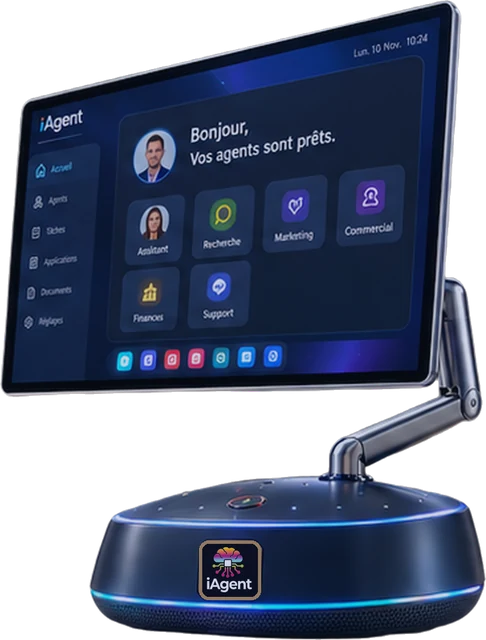
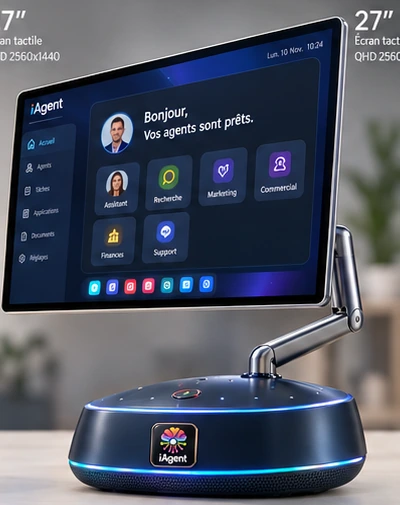
Station iAgent : Coming soon sur l'accueil, présentation à la Apple sur la page Box
La publicité de max est montrée telle quelle, découpée en bandes et jamais
plus large que ses pixels : les montages agrandis paraissaient pixelisés.
Le banc du site n'autorise « Coming soon » que pour la Station (station.jsx).

Claude-Session: https://claude.ai/code/session_01Fapx3mFwNfJZqDxJ1ozkaE

diff --git a/frontend/src/pages/PagesOffre.jsx b/frontend/src/pages/PagesOffre.jsx
@@ -1,3 +1,4 @@
+import { StationApple } from './station.jsx';
 import donnees from 'virtual:accueil';
 import { nombre, LIENS, Icone } from '../accueil/composants.jsx';
 import tarifs, { euros, montant, STATUTS, BOX_PUBLIQUES, BOX_DES, prixAgentEnUneLigne, DUREES, DUREES_COURTES, GRILLE_LOCATION, JOUR_DES } from '../data/tarifs.js';
@@ -42,7 +43,7 @@ function ScenEquipe() {
         {roles.map(([n, role]) => <Collaborateur key={n} n={n} role={role} statut="Disponible" />)}
       </div>
       <div className="sc-equipe-ecran"><Ecran src="dc-vos-agents" alt="Desktop Commander : l'écran « Vos agents » avec l'équipe embauchée" charger="eager" /></div>
-      <div className="sc-equipe-box"><Photo dossier="/accueil" src="box-commander" alt="La Box iAgent Station en trois finitions : écran tactile 27 pouces sur bras, base avec micros et haut-parleurs" largeur={1122} hauteur={570} charger="eager" /></div>
+      <div className="sc-equipe-box"><Photo dossier="/accueil" src="box-commander" alt="La Box iAgent Station en trois finitions : écran tactile 27 pouces sur bras, base avec micros et haut-parleurs" largeur={1176} hauteur={600} charger="eager" /></div>
     </div>
   );
 }
@@ -65,7 +66,7 @@ function RailRecrutement({ colonnes = 6, complet = false }) {
     ['Le prix', 'Agents, Box et estimation de consommation, affichés avant tout engagement.',
       <div className="sc-prix-mini"><small>Agent {ESSENTIAL.nom}, dès</small><strong>{euros(ESSENTIAL.mensuel)}<em> HT / mois</em></strong><small>+ consommation, à part</small></div>],
     ...(complet ? [['La préparation', 'Le contrat signé, la Box est préparée et vos agents y sont installés.',
-      <Photo dossier="/accueil" src="box-commander" alt="" largeur={1122} hauteur={570} />]] : []),
+      <Photo dossier="/accueil" src="box-commander" alt="" largeur={1176} hauteur={600} />]] : []),
     ['La mise en service', 'Vous branchez, vous vous connectez à vos comptes, l’équipe se met au travail.',
       <ul className="sc-coches-mini">{['Box branchée', 'Comptes connectés par vous', 'Équipe au travail'].map((t) => <li key={t}><Icone nom="coche" taille={14} />{t}</li>)}</ul>],
   ];
@@ -90,7 +91,7 @@ export function Workforce() {
         texte="Quatre pièces, chacune sur sa ligne : vous savez toujours ce que vous payez.">
         <div className="sc-formule">
           <a href="/box" className="sc-verre">
-            <div className="sc-formule-visuel"><Photo dossier="/accueil" src="box-commander" alt="La Box iAgent Station en trois finitions" largeur={1122} hauteur={570} /></div>
+            <div className="sc-formule-visuel"><Photo dossier="/accueil" src="box-commander" alt="La Box iAgent Station en trois finitions" largeur={1176} hauteur={600} /></div>
             <b>La Box</b><small>La Station iAgent, chez vous : écran tactile, micros et haut-parleurs en un seul appareil.</small>
           </a>
           <a href={LIENS.catalogue} className="sc-verre">
@@ -116,7 +117,7 @@ export function Workforce() {
       <Scene surtitre="Ce qui fait la différence" titre="Une présence, un poste de pilotage, un vrai métier">
         <div className="sc-trois">
           <div className="sc-verre sc-panneau">
-            <Photo src="box-bureau" alt="La Box iAgent Station sur un bureau, l'écran allumé, en blanc, bleu nuit et aluminium" largeur={1990} hauteur={940} />
+            <Photo src="box-bureau" alt="La Box iAgent Station sur un bureau, l'écran allumé, en blanc, bleu nuit et aluminium" largeur={1448} hauteur={600} />
             <p className="mq-surtitre">Pourquoi la Box</p>
             <h3 className="sc-h3">Une présence physique dans vos bureaux</h3>
             <Liste items={['On parle aux agents à voix haute, par leur prénom.', "L'écran tactile se commande au doigt, sans formation.", 'Préparée, maintenue et mise à jour par iAgent.']} />
@@ -208,7 +209,7 @@ function Puissances() {
     <ul className="sc-materiel">
       {PUISSANCES.map(([icone, titre, texte, statut, image]) => (
         <li key={titre} className="sc-verre">
-          <div className="sc-materiel-visuel">{image ? <Photo dossier="/accueil" src={image} alt="" largeur={1122} hauteur={570} /> : <Icone nom={icone} taille={54} />}</div>
+          <div className="sc-materiel-visuel">{image ? <Photo dossier="/accueil" src={image} alt="" largeur={1176} hauteur={600} /> : <Icone nom={icone} taille={54} />}</div>
           <em>{statut}</em>
           <b>{titre}</b>
           <small>{texte}</small>
@@ -226,12 +227,15 @@ const FINITIONS = [
   ['alu', 'Brushed Aluminum', 'Aluminium brossé et détails chrome', 'Sobre, minéral, haut de gamme.'],
 ];
 
+// Native widths of the three crops of max's visual (height 505).
+const TAILLES = { white: 344, navy: 400, alu: 430 };
+
 function Finitions() {
   return (
     <ul className="sc-finitions">
       {FINITIONS.map(([id, nom, matiere, ton], i) => (
         <li key={id} className="sc-verre">
-          <div className="sc-finition-visuel"><Photo src={`station-${id}`} alt={`La Station iAgent en finition ${nom}`} largeur={490} hauteur={640} /></div>
+          <div className="sc-finition-visuel"><Photo src={`station-${id}`} alt={`La Station iAgent en finition ${nom}`} largeur={TAILLES[id]} hauteur={505} /></div>
           <p className="mq-surtitre">{String.fromCharCode(65 + i)} / {nom}</p>
           <b>{matiere}</b>
           <small>{ton}</small>
@@ -320,7 +324,9 @@ export function Box() {
           <Bouton href="/contact" variante="contour-cyan" evenement="box_quote">Demander un devis Box</Bouton>
         </>}
         preuves={[['micro', 'La voix', 'par leur prénom'], ['ecran', 'Tactile', 'au doigt'], ['bouclier', 'Maintenue', 'mises à jour comprises'], ['equipe', 'Une dizaine', "d'agents par Box"]]}
-        visuel={<Photo src="box-bureau" alt="La Box iAgent Station sur un bureau, en Pearl White, Deep Navy et Brushed Aluminum : écran tactile 27 pouces sur bras articulé, base avec micros et haut-parleurs" largeur={1990} hauteur={940} charger="eager" className="sc-box-heros" />} />
+        visuel={<Photo src="box-bureau" alt="La Box iAgent Station sur un bureau, en Pearl White, Deep Navy et Brushed Aluminum : écran tactile 27 pouces sur bras articulé, base avec micros et haut-parleurs" largeur={1448} hauteur={600} charger="eager" className="sc-box-heros" />} />
+
+      <StationApple />
 
       <Scene surtitre="L'expérience" titre={<>On lui parle, on la touche, <Eclat>elle travaille</Eclat></>}>
         <Atouts items={[
@@ -454,7 +460,7 @@ function GrilleTarifs() {
         <div className="sc-offre-tete"><span><Icone nom="ecran" taille={20} /></span><div><b>La Box</b><small>Le poste de vos agents, chez vous.</small></div></div>
         <div className="sc-montant"><strong>{euros(BOX_PUBLIQUES[0].mensuel)}</strong><em>HT / mois sur {BOX_PUBLIQUES[0].engagementMois} mois</em></div>
         {BOX_PUBLIQUES.slice(1).map((b) => <p key={b.id} className="sc-montant-ou">ou <b>{euros(b.mensuel)}</b> HT / mois sur {b.engagementMois} mois</p>)}
-        <Photo dossier="/accueil" src="box-commander" alt="" largeur={1122} hauteur={570} className="sc-offre-image" />
+        <Photo dossier="/accueil" src="box-commander" alt="" largeur={1176} hauteur={600} className="sc-offre-image" />
         <Bouton href="/box" variante="contour-cyan" evenement="box_click">Découvrir la Box</Bouton>
         <span className="sc-offre-statut">{STATUTS[BOX_PUBLIQUES[0].statut] ?? ''} · matériel compris</span>
       </li>
@@ -469,7 +475,7 @@ export function Tarifs() {
       <Heros decor="orbite" surtitre="Tarifs" titre={<>Un abonnement fixe. <Eclat>Une consommation à part.</Eclat></>}
         texte={`Vous payez la Box, vos agents et, au-delà de quelques agents, le Task Commander. L'usage de l'IA se paie au réel, à part. Prix hors taxes, ${STATUTS[tarifs.statut]?.toLowerCase() ?? tarifs.statut}.`}
         preuves={[['equipe', 'Par agent', 'un prix par niveau'], ['ecran', 'La Box', 'mise à disposition'], ['eclair', 'Consommation', 'au réel, à part'], ['bouclier', 'Sans surprise', "l'estimation avant"]]}
-        visuel={<Photo src="box-bureau" alt="La Box iAgent Station sur un bureau, en trois finitions" largeur={1990} hauteur={940} charger="eager" className="sc-box-heros" />} />
+        visuel={<Photo src="box-bureau" alt="La Box iAgent Station sur un bureau, en trois finitions" largeur={1448} hauteur={600} charger="eager" className="sc-box-heros" />} />
 
       <Scene surtitre="Les agents et la Box" titre={<>Choisissez le niveau de <Eclat>chaque poste</Eclat></>}
         texte={`Chaque agent a son abonnement, ${prixAgentEnUneLigne()} hors taxes. La Box s'ajoute une fois pour l'équipe.`}>
@@ -609,7 +615,7 @@ export function IALocale() {
 /** The three ways to run, as in the security mockup: local, hybrid, cloud. */
 function Deploiements() {
   const voies = [
-    ['local', 'Local', 'Les modèles tournent chez vous ; rien ne sort pour être traité.', <Photo dossier="/accueil" src="box-commander" alt="" largeur={1122} hauteur={570} />, ['Vos fichiers', 'La Box', 'Vos dossiers']],
+    ['local', 'Local', 'Les modèles tournent chez vous ; rien ne sort pour être traité.', <Photo dossier="/accueil" src="box-commander" alt="" largeur={1176} hauteur={600} />, ['Vos fichiers', 'La Box', 'Vos dossiers']],
     ['hybride', 'Hybride', "Le quotidien en local, l'API pour ce que la machine ne porte pas. Vous êtes prévenu avant.", <Icone nom="hybride" taille={64} />, ['La Box', 'Vous êtes prévenu', "L'API d'IA"]],
     ['cloud', 'Cloud', "Pour un ou deux agents, sans machine : ils passent par l'API d'IA que vous choisissez.", <Icone nom="nuage" taille={64} />, ['Desktop Commander', "L'API d'IA", 'Vos dossiers']],
   ];

diff --git a/frontend/src/accueil/scenes/IAgentBox.jsx b/frontend/src/accueil/scenes/IAgentBox.jsx
@@ -2,14 +2,15 @@ import { useRef } from 'react';
 import { Bouton, LIENS } from '../composants.jsx';
 import { BOX_PUBLIQUES, euros } from '../../data/tarifs.js';
 import { useScene, BUREAU, MOBILE, gsap } from '../mouvement.js';
+import { COMING_SOON, PUBLICITE } from '../../pages/station.jsx';
 
-// What each part of the iAgent Station does, placed on the three-finish picture
-// (percent of its width and height). Labels sit beside the badges, never on them.
+// What each part of the iAgent Station does. The picture is max's own visual,
+// shown whole and never wider than its pixels: nothing is drawn over it.
 const REPERES = [
-  { nom: 'Voice', detail: 'ils vous répondent par les haut-parleurs de la base', x: 77, y: 88 },
-  { nom: 'Listen', detail: 'des micros qui vous entendent dans toute la pièce', x: 22, y: 69 },
-  { nom: 'Touch', detail: 'un écran de 27 pouces, le Desktop Commander au doigt', x: 62, y: 14 },
-  { nom: 'Tout-en-un', detail: 'ordinateur, audio, micros et écran en un appareil', x: 34, y: 93 },
+  { nom: 'Voice', detail: 'ils vous répondent par les haut-parleurs de la base' },
+  { nom: 'Listen', detail: 'des micros qui vous entendent dans toute la pièce' },
+  { nom: 'Touch', detail: 'un écran de 27 pouces, le Desktop Commander au doigt' },
+  { nom: 'Tout-en-un', detail: 'ordinateur, audio, micros et écran en un appareil' },
 ];
 
 /** Scene 12 — the team gets a place in the office: the real hardware, big. */
@@ -19,8 +20,7 @@ export default function IAgentBox() {
   useScene(ref, (ajouter) => {
     ajouter(BUREAU, (q) => {
       gsap.timeline({ scrollTrigger: { trigger: q('.bx-photo')[0], start: 'top 85%', end: 'center 55%', scrub: 1 } })
-        .from(q('.bx-photo img'), { scale: 1.12, opacity: 0.2, ease: 'power2.out' });
-      gsap.from(q('.bx-repere'), { opacity: 0, scale: 0.8, stagger: 0.2, duration: 0.7, ease: 'back.out(1.6)', scrollTrigger: { trigger: q('.bx-photo')[0], start: 'top 45%' } });
+        .from(q('.bx-photo img'), { y: 60, opacity: 0.2, ease: 'power2.out' });
     });
     ajouter(MOBILE, (q) => {
       q('.bx-photo, .bx-liste li').forEach((el) => gsap.from(el, { opacity: 0, y: 20, duration: 0.8, scrollTrigger: { trigger: el, start: 'top 92%' } }));
@@ -30,22 +30,14 @@ export default function IAgentBox() {
   return (
     <section ref={ref} id="box" className="scene overflow-hidden" aria-labelledby="titre-box">
       <div className="cadre text-center max-w-3xl mx-auto">
-        <p className="surtitre justify-center">iAgent Box · la Station iAgent</p>
-        <h2 id="titre-box" className="titre-display titre-grand mt-4">Donnez une place <span className="degrade">à votre équipe.</span></h2>
+        <p className="inline-block rounded-full px-5 py-2 text-[0.85rem] font-bold tracking-[0.26em] uppercase text-white" style={{ background: 'linear-gradient(90deg, #e5007e, #7b2ff7 50%, #03b8d9)', boxShadow: '0 0 40px rgba(229,0,126,.45)' }}>{COMING_SOON}</p>
+        <h2 id="titre-box" className="titre-display titre-grand mt-5"><span className="degrade">iAgent Station.</span></h2>
+        <p className="titre-display titre-petit mt-4">Donnez une place à votre équipe.</p>
         <p className="chapeau mt-5 mx-auto">Un seul appareil posé dans vos bureaux, qui porte vos agents, leur voix et votre Desktop Commander. Vos données restent chez vous.</p>
       </div>
 
-      <figure className="bx-photo relative mt-10 mx-auto w-full max-w-[1500px] px-0 md:px-6">
-        <div className="relative overflow-hidden md:rounded-[28px]" style={{ boxShadow: '0 60px 140px -60px rgba(3,243,255,.55), 0 40px 120px -60px rgba(229,0,126,.5)' }}>
-          <img src="/accueil/box-commander.webp" alt="La Station iAgent en trois finitions, Pearl White, Deep Navy et Brushed Aluminum : écran tactile 27 pouces sur bras articulé, base avec micros, haut-parleurs et anneau lumineux." width="1122" height="570" loading="lazy" decoding="async" className="w-full h-auto block" />
-          <div className="absolute inset-0 pointer-events-none" style={{ background: 'linear-gradient(180deg, rgba(2,8,23,.35), transparent 25%, transparent 75%, rgba(2,8,23,.6))' }} />
-          {REPERES.map((r) => (
-            <span key={r.nom} className="bx-repere hidden md:flex absolute -translate-x-1/2 -translate-y-1/2 items-center gap-2" style={{ left: `${r.x}%`, top: `${r.y}%` }}>
-              <span className="w-3 h-3 rounded-full bg-[var(--cyan)] pulse-lent" />
-              <span className="neon !rounded-full px-3.5 py-1.5 text-[0.7rem] font-bold tracking-[0.22em] uppercase text-white">{r.nom}</span>
-            </span>
-          ))}
-        </div>
+      <figure className="bx-photo relative mt-10 mx-auto w-full px-4 md:px-6 flex justify-center">
+        <img src={PUBLICITE.src} alt={PUBLICITE.alt} width={PUBLICITE.largeur} height={PUBLICITE.hauteur} loading="lazy" decoding="async" className="block w-full h-auto rounded-[22px] md:rounded-[28px]" style={{ maxWidth: `${PUBLICITE.largeur}px`, boxShadow: '0 60px 140px -60px rgba(3,243,255,.55), 0 40px 120px -60px rgba(229,0,126,.5)' }} />
       </figure>
 
       <div className="cadre">

diff --git a/frontend/src/pages/scenes.css b/frontend/src/pages/scenes.css
@@ -556,8 +556,8 @@
 .sc-finitions { list-style: none; margin: 0; padding: 0; display: grid; gap: 16px; }
 @media (min-width: 760px) { .sc-finitions { grid-template-columns: repeat(3, 1fr); } }
 .sc-finitions li { display: flex; flex-direction: column; gap: 6px; padding: 20px; text-align: center; align-items: center; }
-.sc-finition-visuel { width: 100%; aspect-ratio: 1 / 1; display: grid; place-items: center; border-radius: 16px; background: radial-gradient(circle at 50% 70%, rgba(3, 243, 255, 0.16), transparent 62%); }
-.sc-finition-visuel img { max-height: 100%; width: auto; max-width: 100%; filter: drop-shadow(0 26px 30px rgba(0, 0, 0, 0.6)); }
+.sc-finition-visuel { width: 100%; display: grid; place-items: center; }
+.sc-finition-visuel img { width: auto; max-width: 100%; height: auto; border-radius: 14px; }
 .sc-finitions b { color: #fff; }
 .sc-finitions small { color: var(--texte-doux); font-size: 0.88rem; }
 .sc-fiche { list-style: none; margin: 0; padding: 0; display: grid; gap: 14px; }
@@ -574,3 +574,22 @@
 .sc-anneau li span { width: 64px; height: 18px; border-radius: 50%; border: 3px solid var(--teinte); box-shadow: 0 0 14px var(--teinte), inset 0 0 8px var(--teinte); }
 .sc-anneau-ecoute { --teinte: #2f8bff; } .sc-anneau-traitement { --teinte: #8b6bff; } .sc-anneau-reponse { --teinte: #22e3a8; } .sc-anneau-coupe { --teinte: #ff3b4f; }
 .sc-anneau + .sc-deux { align-items: start; }
+
+/* iAgent Station, Apple-style (station.jsx): a light page in the dark site,
+   the visual never wider than its own pixels. */
+.st-apple { background: #f5f5f7; color: #1d1d1f; padding: 96px 16px 104px; }
+.st-tete { max-width: 980px; margin: 0 auto; text-align: center; }
+.st-tete-petite { margin-top: 88px; }
+.st-annonce { display: inline-block; margin: 0 0 18px; padding: 8px 18px; border-radius: 999px; font-weight: 700; font-size: 0.8rem; letter-spacing: 0.24em; text-transform: uppercase; color: #fff; background: linear-gradient(90deg, #e5007e, #7b2ff7 50%, #03b8d9); }
+.st-titre { margin: 0; font-family: Montserrat, system-ui, sans-serif; font-weight: 800; font-size: clamp(2.6rem, 7vw, 5.6rem); line-height: 1.02; letter-spacing: -0.035em; color: #1d1d1f; }
+.st-titre-moyen { font-size: clamp(1.8rem, 4vw, 3.2rem); }
+.st-chapeau { margin: 18px auto 0; max-width: 640px; font-size: clamp(1.1rem, 2vw, 1.5rem); line-height: 1.35; color: #6e6e73; }
+.st-figure { margin: 48px auto 0; display: flex; justify-content: center; }
+.st-image { display: block; width: 100%; height: auto; border-radius: 22px; }
+.st-details { list-style: none; margin: 72px auto 0; padding: 0; max-width: 1448px; display: grid; gap: 40px 24px; }
+@media (min-width: 760px) { .st-details { grid-template-columns: repeat(2, 1fr); } }
+@media (min-width: 1200px) { .st-details { grid-template-columns: repeat(4, 1fr); } }
+.st-details li { display: flex; flex-direction: column; align-items: center; text-align: center; }
+.st-details .st-image { border-radius: 18px; box-shadow: 0 24px 50px -30px rgba(0, 0, 0, 0.35); }
+.st-details h3 { margin: 22px 0 0; font-family: Montserrat, system-ui, sans-serif; font-size: 1.3rem; font-weight: 800; letter-spacing: -0.02em; color: #1d1d1f; }
+.st-details p { margin: 8px 0 0; max-width: 320px; font-size: 1rem; line-height: 1.45; color: #6e6e73; }

diff --git a/frontend/src/pages/station.jsx b/frontend/src/pages/station.jsx
@@ -1,0 +1,54 @@
+// The iAgent Station, shown with max's own advertising visual (17/10/2026).
+// Every picture is a crop of that visual at its native size, never enlarged:
+// the visual is 1448 px wide, and stretched it looked pixelated.
+
+/** The only place on the site allowed to announce something for later (max,
+ *  17/10: « Coming soon. iAgent Station »). The site banc refuses this wording
+ *  anywhere else. */
+export const COMING_SOON = 'Coming soon';
+
+export const PUBLICITE = { src: '/pages/station-publicite.webp', largeur: 1448, hauteur: 1086,
+  alt: 'La Station iAgent, votre centre de commande IA : trois finitions Pearl White, Deep Navy et Brushed Aluminum, écran tactile 27 pouces QHD, micros, haut-parleurs, anneau lumineux et architecture modulaire.' };
+
+const DETAILS = [
+  ['station-micros', 452, 'Elle vous entend.', 'Quatre à six micros en couronne, un bouton qui les coupe, l’anneau lumineux qui dit ce qu’elle fait.'],
+  ['station-connexions', 321, 'Tout se branche derrière.', 'Ethernet 2,5 Gb/s, Wi-Fi 6E, USB-A, USB-C, HDMI : les câbles passent dans le bras.'],
+  ['station-trappe', 248, 'Elle s’ouvre par dessous.', 'Mémoire et SSD derrière une trappe de service : 16, 32 ou 64 Go, 1 ou 2 To.'],
+  ['station-architecture', 420, 'Modulaire, de l’écran au châssis.', 'Écran, bras, micros, calcul et son sont des modules qui se changent un à un.'],
+];
+
+const Image = ({ src, largeur, hauteur, alt, charger = 'lazy', className = '' }) => (
+  <img className={`st-image ${className}`} src={src} alt={alt} width={largeur} height={hauteur} loading={charger} decoding="async" style={{ maxWidth: `${largeur}px` }} />
+);
+
+/** Apple-style presentation of the Station for the Box page: big type, then
+ *  the visual band by band (the whole visual is on the home page). */
+export function StationApple() {
+  return (
+    <section className="st-apple" aria-labelledby="titre-station">
+      <div className="st-tete">
+        <p className="st-annonce">{COMING_SOON}</p>
+        <h2 id="titre-station" className="st-titre">iAgent Station.</h2>
+        <p className="st-chapeau">Votre centre de commande IA, à la maison comme en entreprise.</p>
+      </div>
+      <figure className="st-figure">
+        <Image src="/accueil/box-commander.webp" largeur={1176} hauteur={600} alt="La Station iAgent en trois finitions : Pearl White, Deep Navy et Brushed Aluminum, écran tactile 27 pouces QHD sur bras articulé." />
+      </figure>
+      <div className="st-tete st-tete-petite">
+        <h3 className="st-titre st-titre-moyen">Tout est dedans.</h3>
+      </div>
+      <figure className="st-figure">
+        <Image src="/pages/station-experience.webp" largeur={1448} hauteur={134} alt="Ryzen 7, 32 ou 64 Go, SSD NVMe ; 4 à 6 micros far-field ; audio 2 × 5 W ; écran tactile 27 pouces QHD ; connectivité complète ; anneau lumineux à quatre statuts." />
+      </figure>
+      <ul className="st-details">
+        {DETAILS.map(([src, largeur, titre, texte]) => (
+          <li key={src}>
+            <Image src={`/pages/${src}.webp`} largeur={largeur} hauteur={348} alt={`${titre} ${texte}`} />
+            <h3>{titre}</h3>
+            <p>{texte}</p>
+          </li>
+        ))}
+      </ul>
+    </section>
+  );
+}

diff --git a/frontend/banc/rendu.jsx b/frontend/banc/rendu.jsx
@@ -387,6 +387,15 @@ for (const page of PAGES) {
   const avenir = execSync("grep -rniE 'bient(o|ô)t|prochainement|en pr(e|é)vision|arrive progressivement|arrivera|arriveront|à venir|en cours de d(e|é)veloppement|pas encore (branch|construit|disponible)' src/pages src/accueil src/components src/App.jsx src/data/tarifs.json seo/generer.mjs || true", { encoding: 'utf8' }).trim();
   if (avenir) echoue(`une page annonce encore une fonction pour plus tard : ${avenir.split('\n').map((l) => l.slice(0, 120)).join(' ; ')}`);
   else ok('aucune page ne renvoie une fonction à plus tard');
+
+  // Une seule exception, voulue par max le 17/10 : « Coming soon » pour la
+  // Station iAgent, écrit une fois dans station.jsx et nulle part ailleurs.
+  const bientot = execSync("grep -rniE 'coming soon' src/pages src/accueil src/components src/App.jsx src/data/tarifs.json seo/generer.mjs || true", { encoding: 'utf8' }).trim().split('\n').filter(Boolean);
+  const horsStation = bientot.filter((l) => !l.startsWith('src/pages/station.jsx:'));
+  const dansStation = bientot.filter((l) => l.startsWith('src/pages/station.jsx:') && /COMING_SOON = 'Coming soon'/.test(l));
+  if (horsStation.length) echoue(`« Coming soon » ailleurs que pour la Station : ${horsStation.map((l) => l.slice(0, 120)).join(' ; ')}`);
+  else if (dansStation.length !== 1) echoue('la Station iAgent ne porte plus son « Coming soon » (station.jsx)');
+  else ok('« Coming soon » n’annonce que la Station iAgent');
 }
 
 console.log(process.exitCode ? `\n${n} attentes tenues, au moins une faute ci-dessus — boutique REFUSÉE` : `\n${n} attentes tenues — boutique ok`);

diff --git a/frontend/src/pages/PagesBusiness.jsx b/frontend/src/pages/PagesBusiness.jsx
@@ -176,7 +176,7 @@ function PourquoiLouer() {
             <p className="mq-surtitre">Avec iAgent</p>
             <h3 className="sc-h2">Tout est déjà intégré</h3>
             <div className="sc-integre-corps">
-              <Photo dossier="/accueil" src="box-commander" alt="La Box iAgent Station en trois finitions" largeur={1122} hauteur={570} />
+              <Photo dossier="/accueil" src="box-commander" alt="La Box iAgent Station en trois finitions" largeur={1176} hauteur={600} />
               <div className="sc-integre-lignes">
                 <div><Icone nom="equipe" taille={20} /><span><b>Des métiers prêts</b><small>Décrits, maintenus, enrichis.</small></span></div>
                 <div><Icone nom="ecran" taille={20} /><span><b>La Box et Desktop Commander</b><small>Préparés et tenus à jour.</small></span></div>
